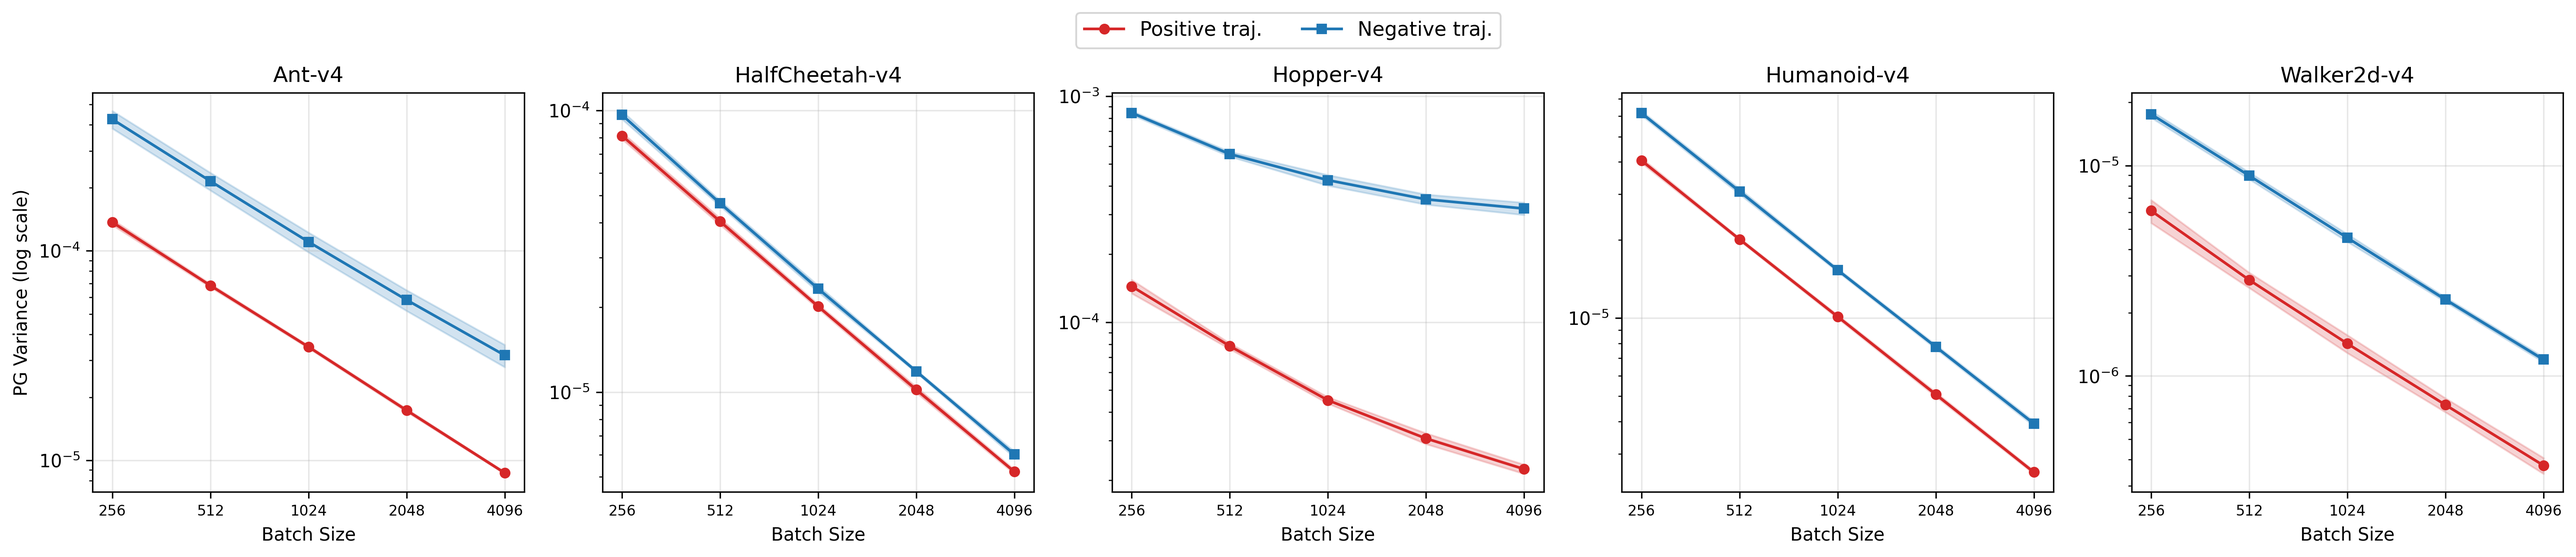
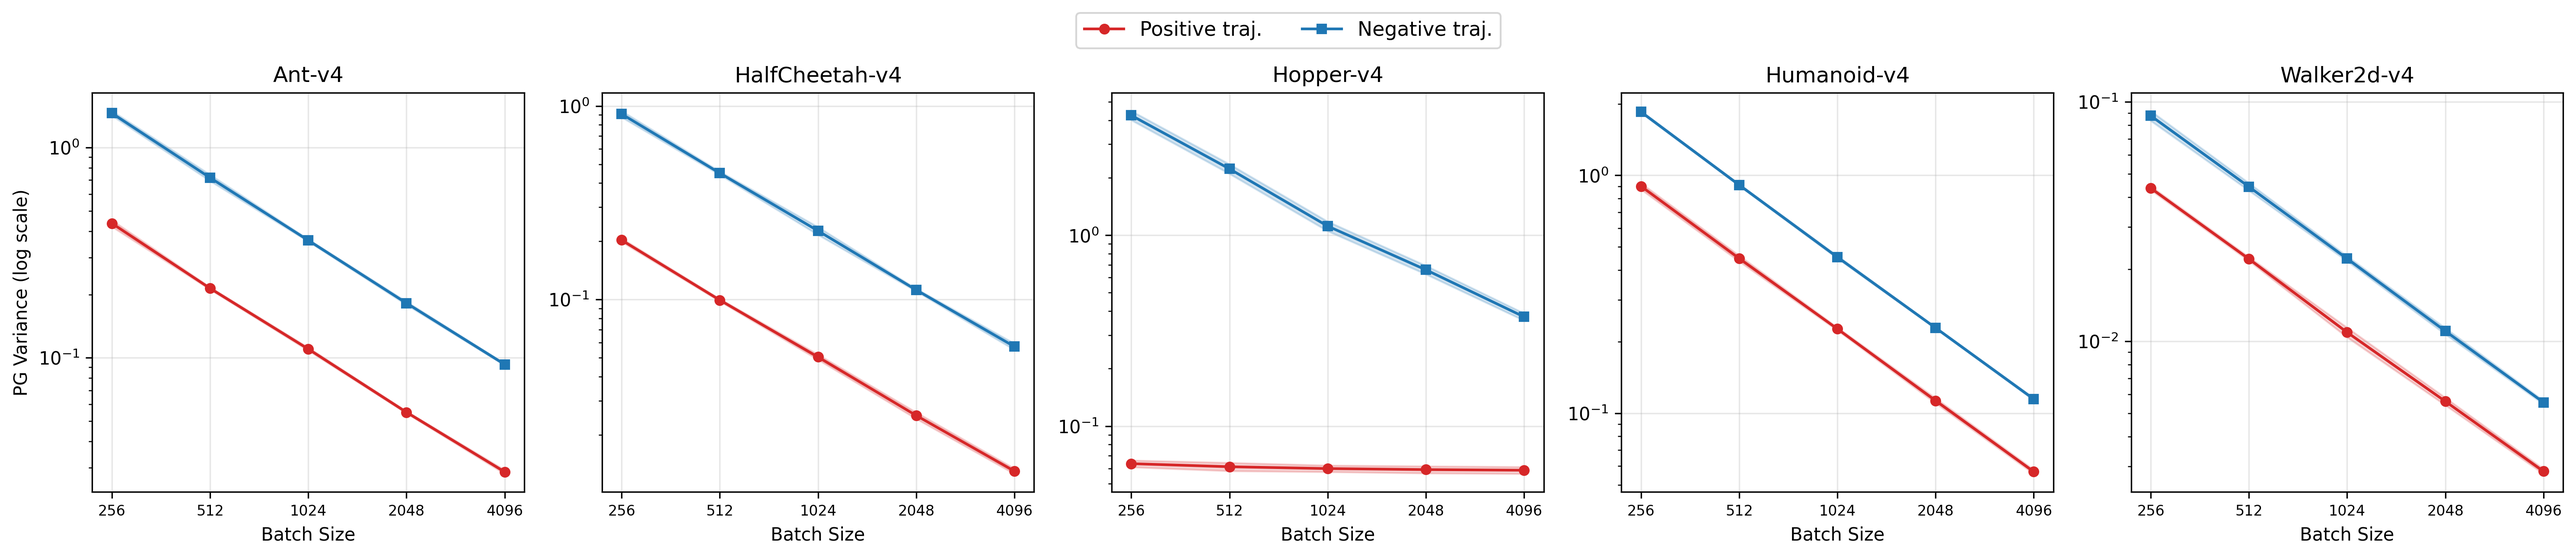
update pg_variance exp

diff --git a/Atari_MuJoCo/experiments/verify_pg_variance.py b/Atari_MuJoCo/experiments/verify_pg_variance.py
@@ -165,7 +165,7 @@ if __name__ == "__main__":
     parser.add_argument("--gamma", type=float, default=0.99)
     parser.add_argument("--gae-lambda", type=float, default=0.95)
     parser.add_argument("--alpha", type=float, default=0.3,
-                        help="proportion of top/bottom episodes as positive/negative samples")
+                        help="proportion of top/bottom steps (by GAE advantage) as pos/neg samples")
     parser.add_argument("--num-bootstrap", type=int, default=200,
                         help="number of bootstrap resamples per batch_size")
     args = parser.parse_args()
@@ -276,23 +276,22 @@ if __name__ == "__main__":
         print(f"WARNING: No complete episodes for {args.env_id} seed {args.seed}")
         sys.exit(1)
 
-    # 按 episode return 排序，取前 alpha 比例为正样本，后 alpha 比例为负样本
-    sorted_episodes = sorted(all_episodes, key=lambda ep: ep[2], reverse=True)
-    num_eps = len(sorted_episodes)
-    n_select = max(1, int(num_eps * args.alpha))
-    top_episodes = sorted_episodes[:n_select]
-    bottom_episodes = sorted_episodes[-n_select:]
-    print(f"{args.env_id} seed{args.seed}: {num_eps} episodes in {args.num_steps} steps, "
-          f"alpha={args.alpha}, top {n_select} eps (ret >= {top_episodes[-1][2]:.2f}), "
-          f"bottom {n_select} eps (ret <= {bottom_episodes[0][2]:.2f})")
+    # 按 step 的 GAE 优势降序排序，取前 alpha 比例为正样本，后 alpha 比例为负样本
+    num_eps = len(all_episodes)
+    N = args.num_steps
+    n_select = max(1, int(N * args.alpha))
+    if 2 * n_select > N:
+        n_select = max(1, N // 2)
+    step_order = torch.argsort(advantages, descending=True)
+    pos_idx = step_order[:n_select]
+    neg_idx = step_order[-n_select:]
+    adv_top_thr = advantages[pos_idx[-1]].item()
+    adv_bot_thr = advantages[neg_idx[0]].item()
+    print(f"{args.env_id} seed{args.seed}: {num_eps} episodes in {N} steps, "
+          f"alpha={args.alpha}, top {n_select} steps (adv >= {adv_top_thr:.4f}), "
+          f"bottom {n_select} steps (adv <= {adv_bot_thr:.4f})")
 
-    pos_idx, neg_idx = [], []
-    for start, end, ret in top_episodes:
-        pos_idx.extend(range(start, end + 1))
-    for start, end, ret in bottom_episodes:
-        neg_idx.extend(range(start, end + 1))
-
-    if not pos_idx or not neg_idx:
+    if pos_idx.numel() == 0 or neg_idx.numel() == 0:
         print(f"WARNING: Cannot split pos/neg for {args.env_id} seed {args.seed}")
         sys.exit(1)
 
@@ -339,7 +338,7 @@ if __name__ == "__main__":
         "alpha": args.alpha,
         "num_steps": args.num_steps,
         "num_episodes": num_eps,
-        "num_selected_episodes": n_select,
+        "num_selected_steps_per_side": n_select,
         "num_pos_steps": len(pos_idx),
         "num_neg_steps": len(neg_idx),
         "num_bootstrap": args.num_bootstrap,
